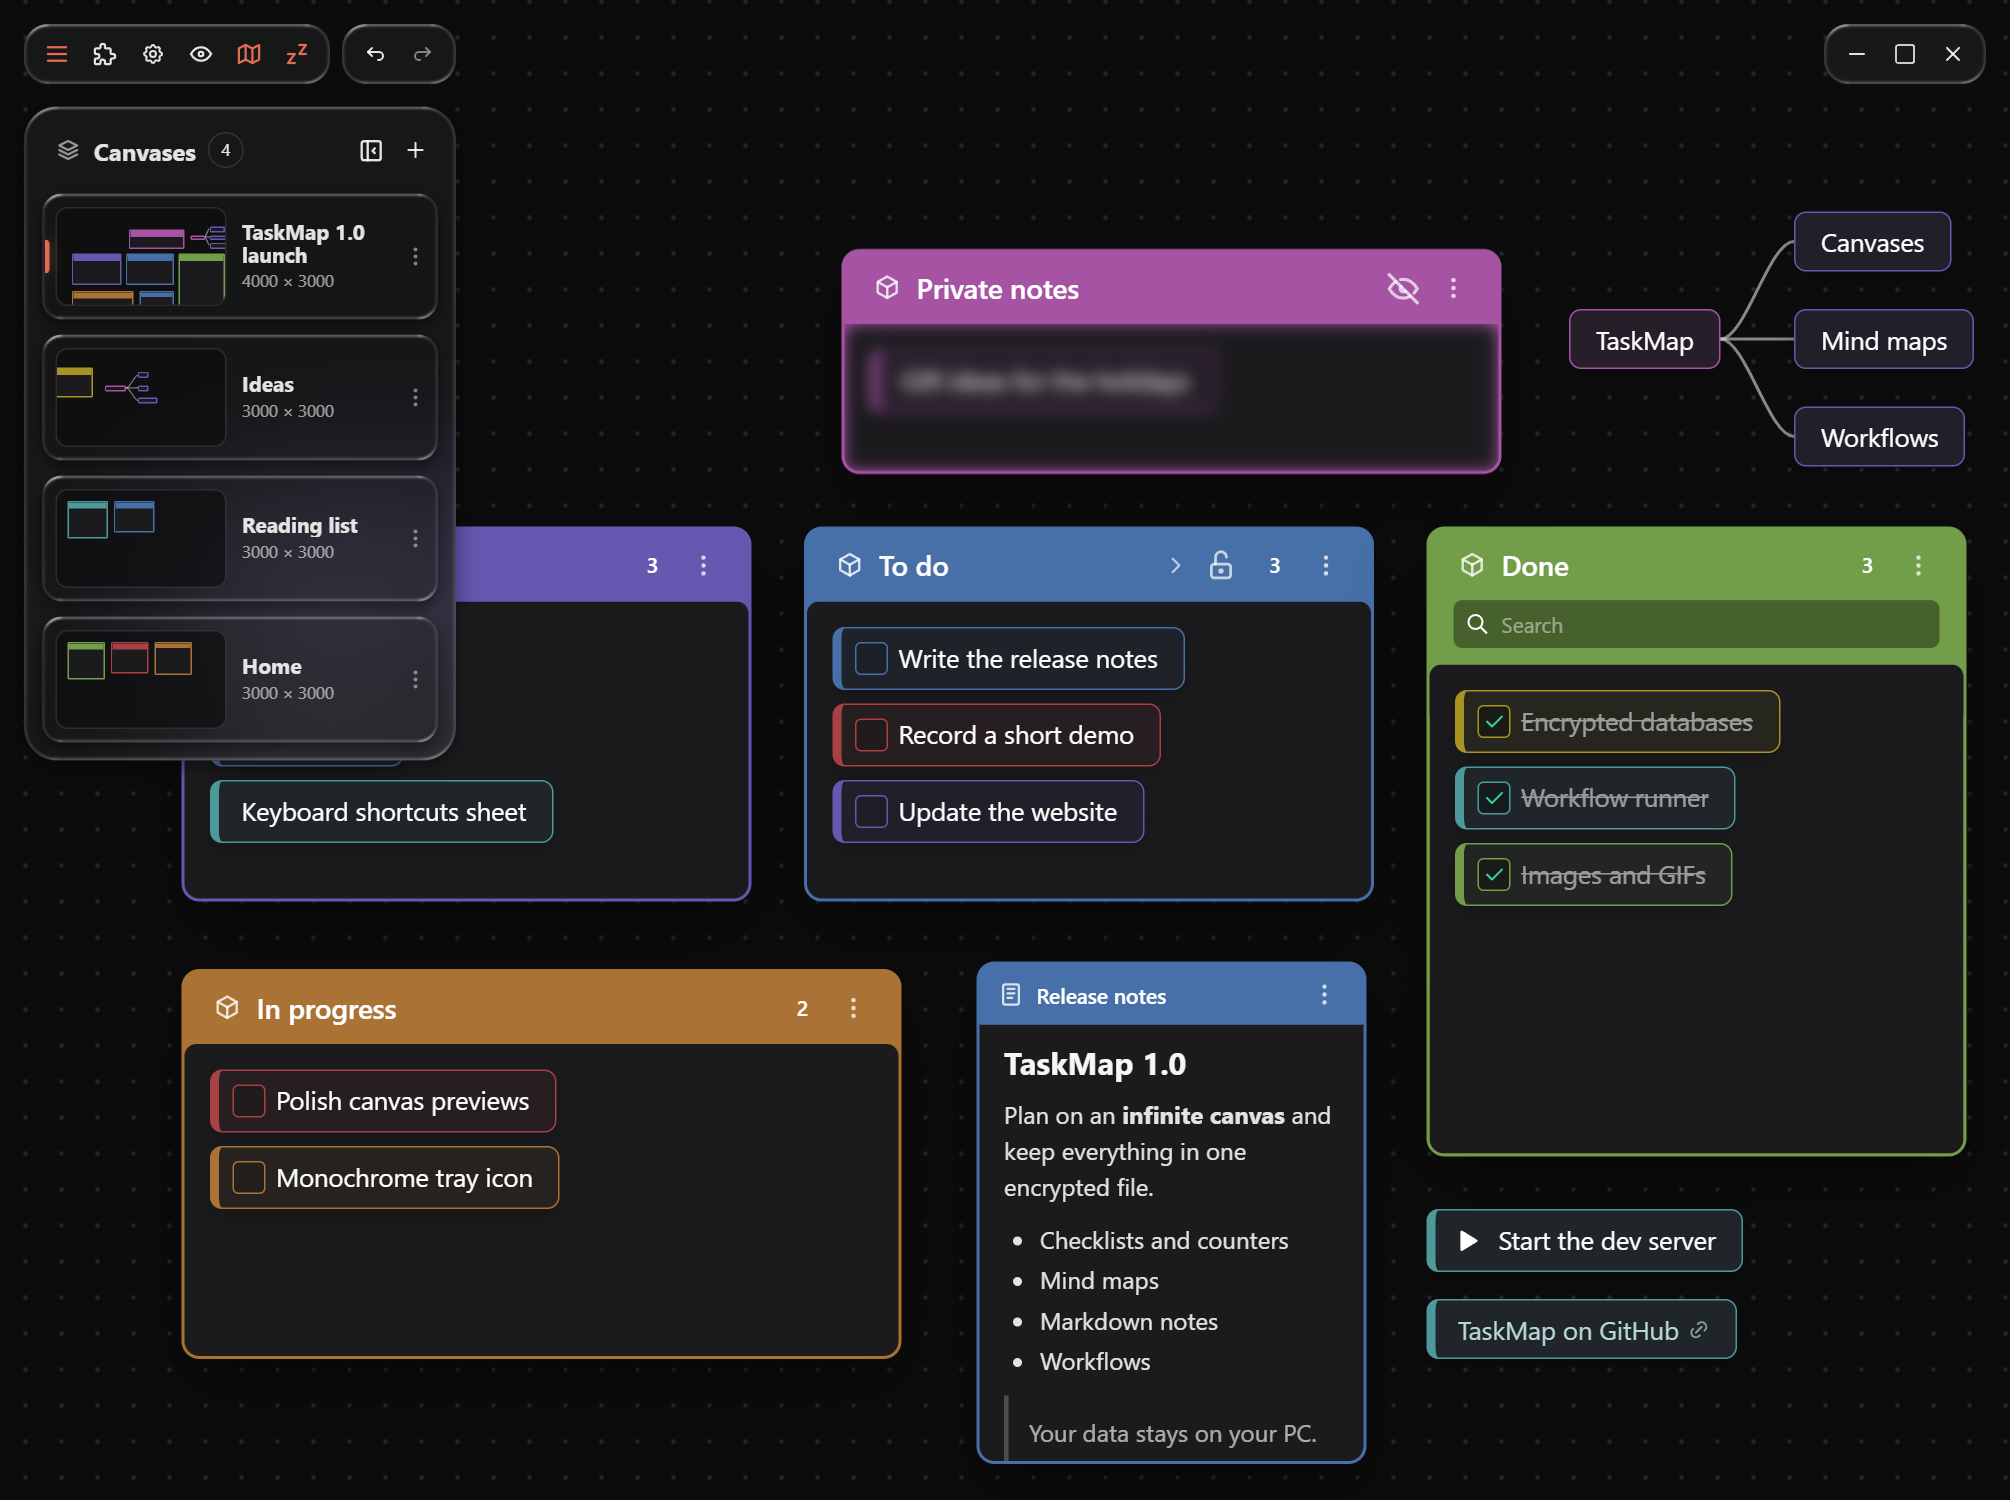
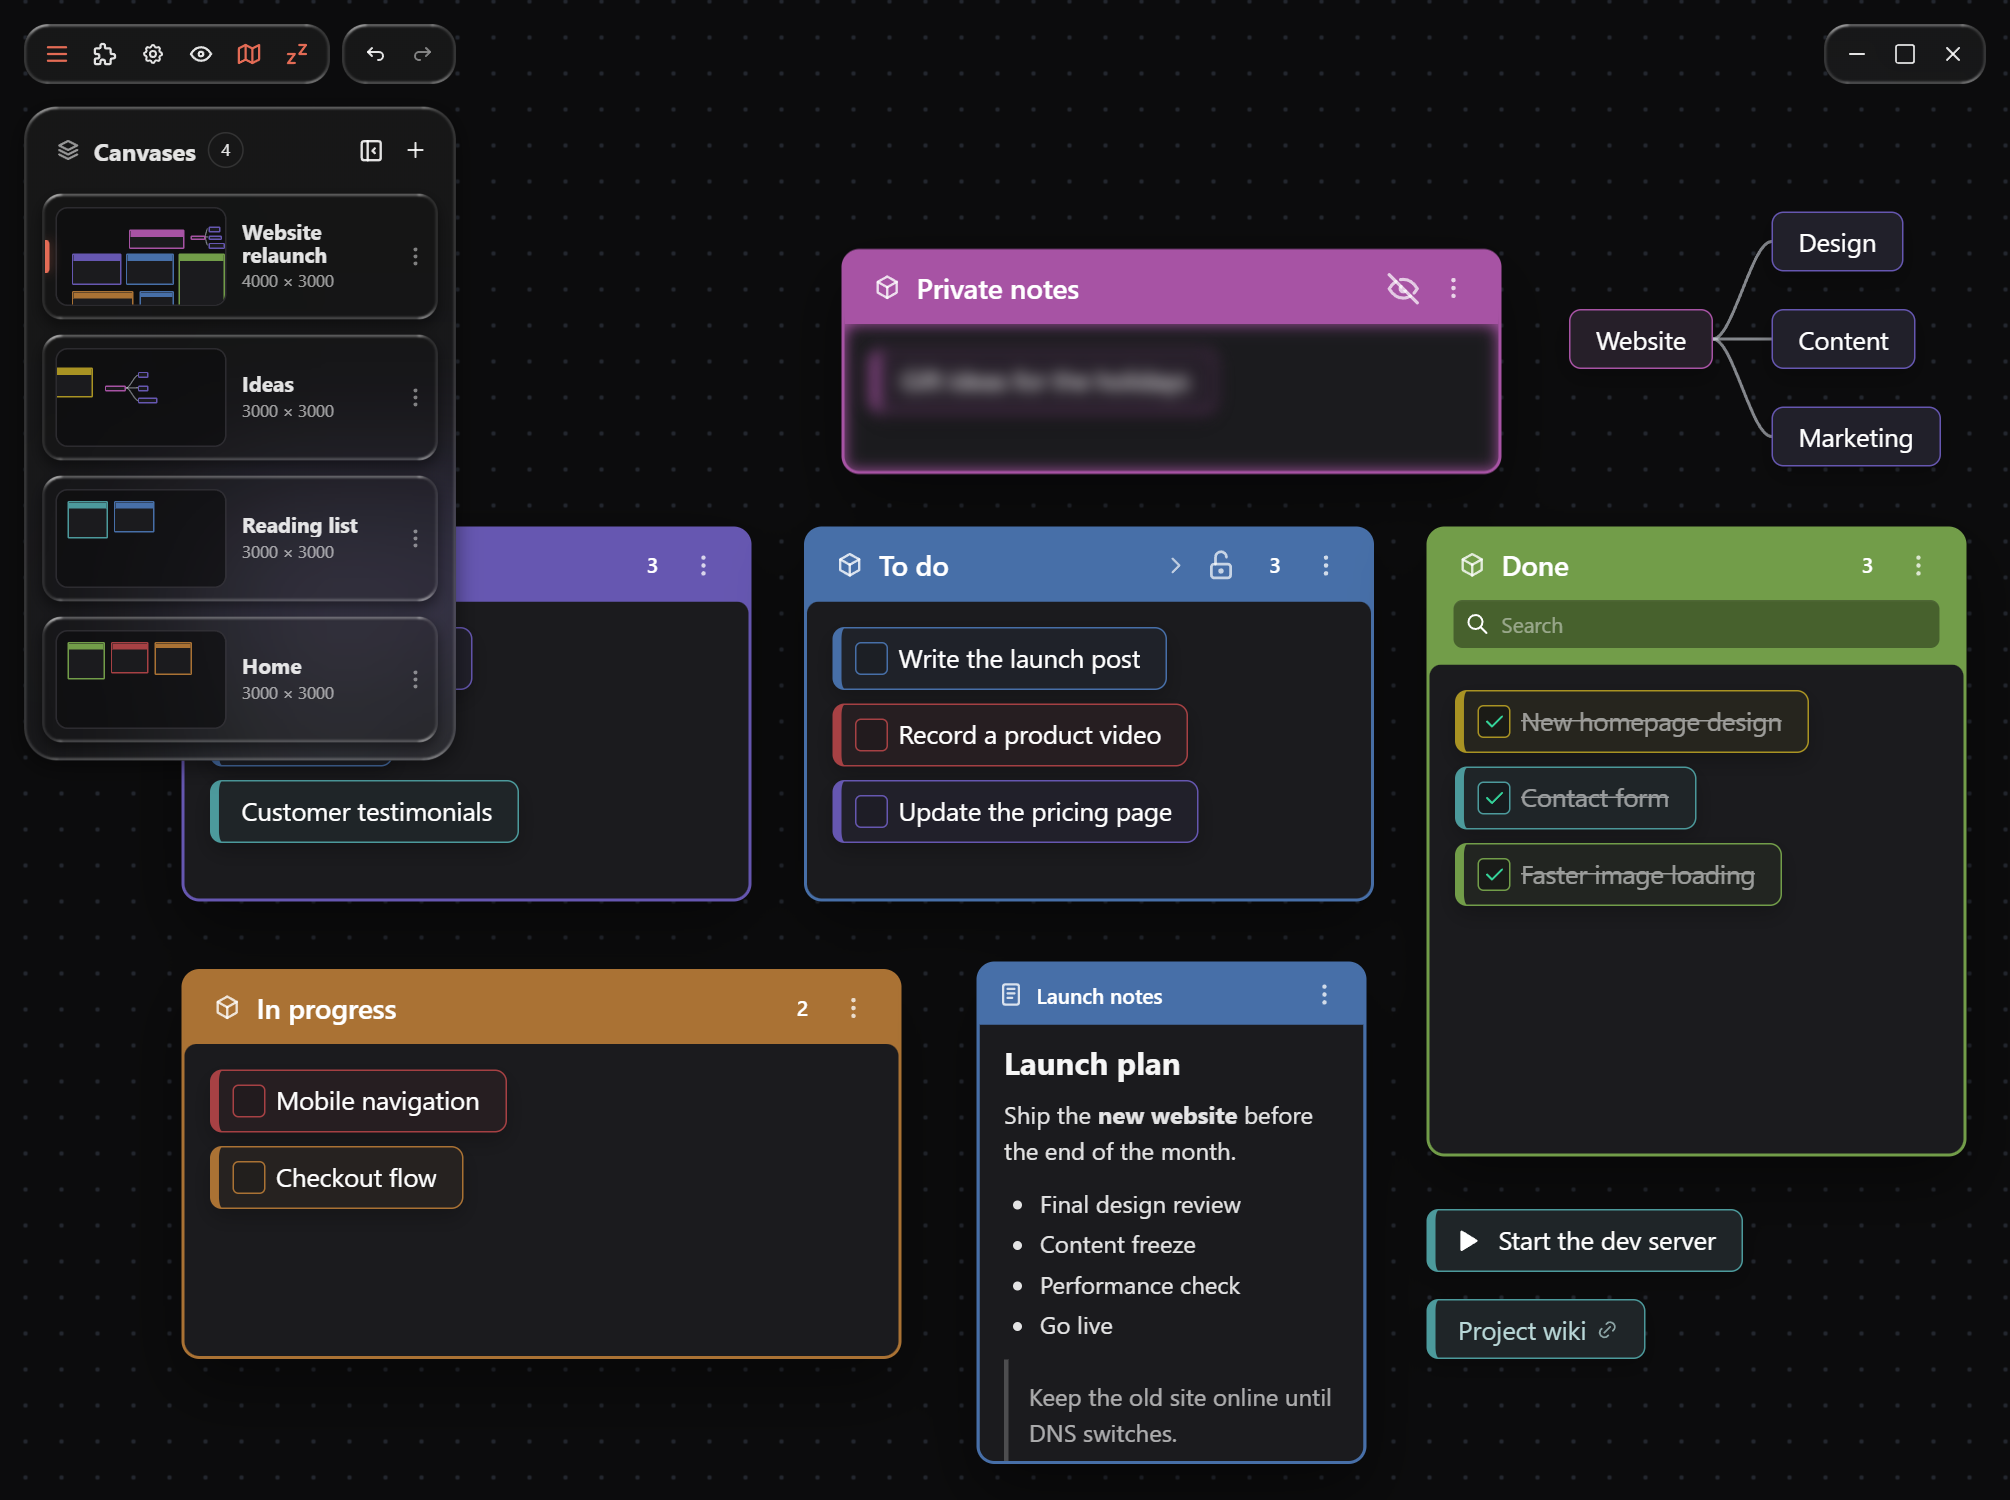
Use a generic project in the README screenshot
The demo canvases now show a website relaunch (board, private notes, mind map, launch notes,
workflow and link cards) instead of content about TaskMap itself.

diff --git a/README.md b/README.md
@@ -26,7 +26,7 @@
 
 </div>
 
-![TaskMap with a project board, notes, a mind map and the canvas browser](.github/assets/preview.png)
+![TaskMap showing a website relaunch board with checklists, private notes, a mind map, Markdown notes and the canvas browser](.github/assets/preview.png)
 
 ## What is TaskMap?
 
